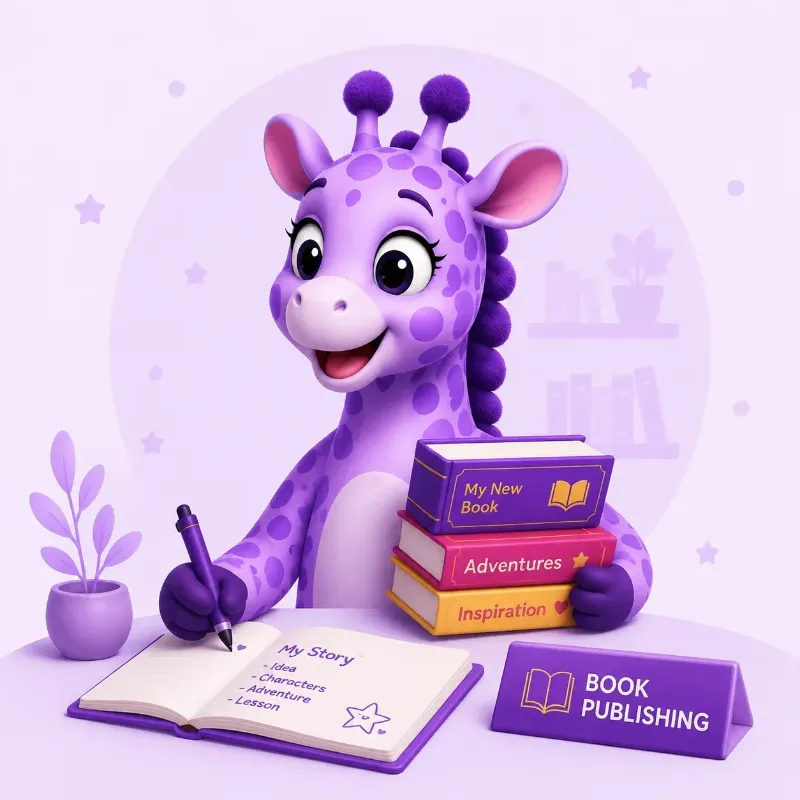
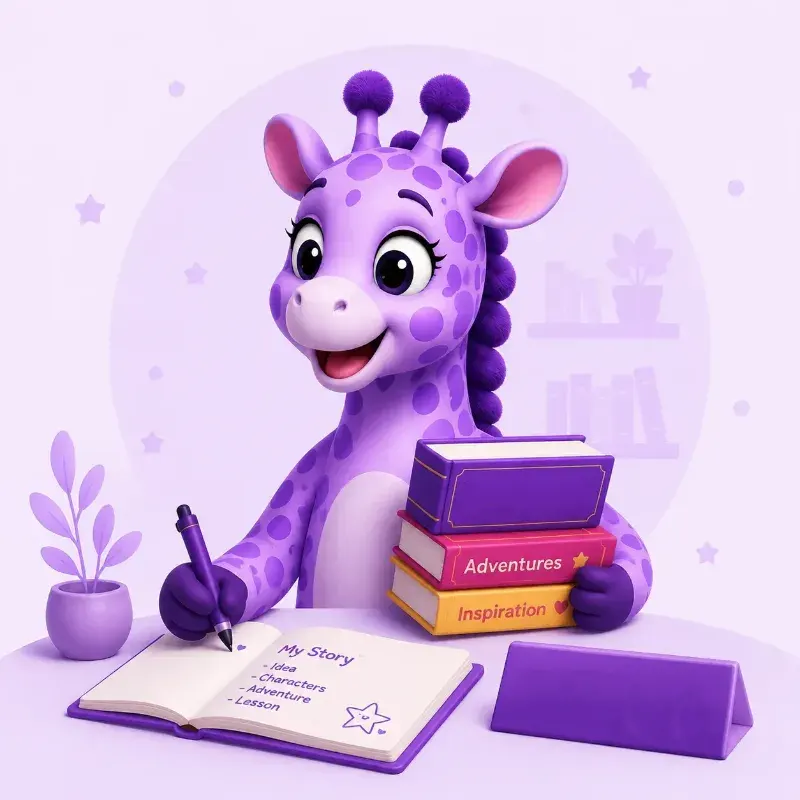
purple changes done

Changed region(s): [[0.6562, 0.8125, 0.9062, 0.9375], [0.5625, 0.5938, 0.6562, 0.6562], [0.6875, 0.5938, 0.75, 0.6562]]

diff --git a/assets/css/style.css b/assets/css/style.css
@@ -817,6 +817,7 @@ ul { list-style: none; padding: 0; margin: 0; }
   object-position: center;
   z-index: 0;
   pointer-events: none;
+  filter: contrast(1.7);
   opacity: 0;
   transition: opacity .45s ease;
 }
@@ -5662,3 +5663,28 @@ body.qp-open { overflow: hidden; }
   .t-marquee { -webkit-mask-image: none; mask-image: none; }
   .t-card:hover { transform: none; } /* keep the shadow, drop the grow */
 }
+
+/* ============================================================
+   CTA band — lift it off the purple footer.
+   The old purple gradient sat flush against the purple footer and
+   the two shades blended. A warm cream "storybook" panel makes the
+   call-to-action read as its own moment with a clean boundary below.
+   ============================================================ */
+.cta-band {
+  background:
+    radial-gradient(circle at 86% 16%, rgba(247, 201, 72, .26), transparent 46%),
+    linear-gradient(135deg, #fbf5ff, #f1e7ff);
+  color: var(--purple-900);
+  border-top: 3px dotted rgba(247, 201, 72, .7);
+  box-shadow: inset 0 -1px 0 rgba(76, 25, 133, .08);
+}
+.cta-band h2,
+.cta-band p,
+.cta-band .eyebrow,
+.cta-band .script-mark { color: var(--purple-900); }
+.cta-band p { opacity: .82; }
+.cta-call { color: var(--purple-800); }
+.cta-call strong { color: var(--purple-800); }
+/* Halo behind the mascot: a soft purple tint reads on the light panel
+   where the old translucent-white halo had vanished. */
+.cta-mascot::before { background: rgba(122, 61, 209, .12); }

diff --git a/includes/data/portfolio-data.php b/includes/data/portfolio-data.php
@@ -26,9 +26,9 @@ $portfolioItems = array_map(static function (array $item): array {
     $item['category_slug'] = strtolower(preg_replace('/[^a-z0-9]+/i', '-', $item['category']));
     return $item;
 }, [    
+    ['category' => 'Children Book', 'author' => 'Jessica Schoettle',  'title' => "Tilly's Rainbow Adventure",                                'amazon_link' => 'https://www.amazon.com/dp/B0H2Q7LQQW/'],
+    ['category' => 'Children Book', 'author' => 'Ashlee Ridlon',      'title' => "Whatever You Do, Don't Fall Asleep!",                      'amazon_link' => 'https://www.amazon.com/dp/B0GR74ZF3Y/'],
     ['category' => 'Children Book', 'author' => 'Rayan Yale',         'title' => '100,000 Whys - The Big Journey for Curious Kids',          'amazon_link' => 'https://www.amazon.com/dp/B0GY862XJM/'],
-    ['category' => 'Children Book', 'author' => 'Theo Wonderquill',   'title' => '100,000 Whys Encyclopedia for Kids',                       'amazon_link' => 'https://www.amazon.com/dp/B0GZZMZ5LG/'],
-    ['category' => 'Children Book', 'author' => 'Nolan Bright',       'title' => '100,000 Whys for Curious Kids',                            'amazon_link' => 'https://www.amazon.com/dp/B0GZKWXXSQ/'],
     ['category' => 'Children Book', 'author' => 'V Moua',             'title' => 'Sticks and Stones May Break My...',                        'amazon_link' => 'https://www.amazon.com/dp/B0GX32MSYM/'],
     ['category' => 'Children Book', 'author' => 'V Moua',             'title' => 'I Am Not a Dinosaur!',                                     'amazon_link' => 'https://www.amazon.com/dp/B0GX34ZYDM/'],
     ['category' => 'Children Book', 'author' => 'V Moua',             'title' => "Don't Worry, Cookie. We'll Save You!",                     'amazon_link' => 'https://www.amazon.com/dp/B0FPBGVVJR/'],
@@ -37,9 +37,7 @@ $portfolioItems = array_map(static function (array $item): array {
     ['category' => 'Children Book', 'author' => 'Charlie Maple',      'title' => 'The Epic Science Challenge For Super Smart Kids',          'amazon_link' => 'https://www.amazon.com/dp/B0GXQFK6V9/'],
     ['category' => 'Children Book', 'author' => 'Jeffrey Kyle',       'title' => 'The Mehrabian Rule for Kids',                              'amazon_link' => 'https://www.amazon.com/dp/B0GZ3B6PLP/'],
     ['category' => 'Children Book', 'author' => 'Gabriel Nedelcu',    'title' => 'The Great Neurotrainer Workbook for Smart Kids',           'amazon_link' => 'https://www.amazon.com/dp/B0H1GVZBVY/'],
-    ['category' => 'Children Book', 'author' => 'Ashlee Ridlon',      'title' => "Whatever You Do, Don't Fall Asleep!",                      'amazon_link' => 'https://www.amazon.com/dp/B0GR74ZF3Y/'],
     ['category' => 'Children Book', 'author' => 'Joey Acker',         'title' => 'The Worst Vacation Book in the Whole Entire World',        'amazon_link' => 'https://www.amazon.com/dp/B0GZCSHH24/'],
-    ['category' => 'Children Book', 'author' => 'Jessica Schoettle',  'title' => "Tilly's Rainbow Adventure",                                'amazon_link' => 'https://www.amazon.com/dp/B0H2Q7LQQW/'],
 ]);
 
 /* Build the genre tabs list dynamically from the data — `All` first,

diff --git a/index.php b/index.php
@@ -54,7 +54,7 @@ $page_faqs = [
   <div class="container about-home-layout">
     <figure class="about-home-figure reveal">
       <span class="about-home-glow" aria-hidden="true"></span>
-      <img src="./assets/images/about.webp" alt="<?php echo e(SITE_NAME); ?> logo" loading="lazy">
+      <img src="./assets/images/home-about.webp" alt="<?php echo e(SITE_NAME); ?> logo" loading="lazy">
       <span class="about-home-pill"><span aria-hidden="true">★</span> Australian, est. <?php echo e(SITE_FOUNDED_YEAR); ?></span>
     </figure>
     <div class="about-home-copy reveal">

diff --git a/includes/cta.php b/includes/cta.php
@@ -1,7 +1,7 @@
 <section class="cta-band">
   <div class="container cta-layout">
     <div>
-      <p class="eyebrow script-mark" style="color : #fff">- your turn</p>
+      <p class="eyebrow script-mark" style="color : var(--purple-600)">- your turn</p>
       <h2>Ready to publish <em>your story?</em></h2>
       <p>Tell us about your book in 60 seconds. We&apos;ll come back with a free, no-pressure consultation and a real plan.</p>
       <div class="button-row">
